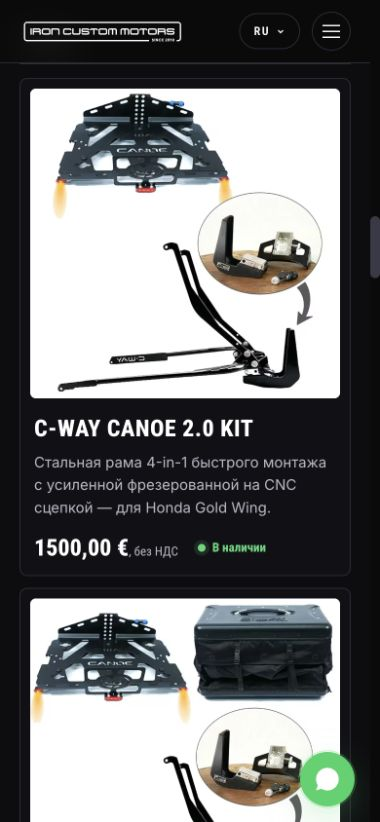
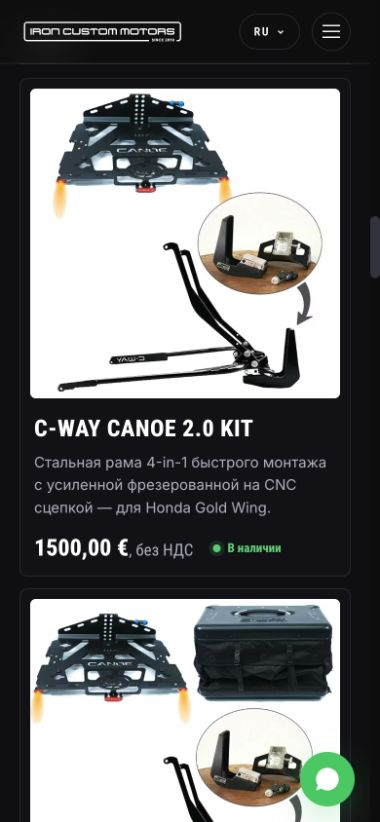
Increase C-Way VAT suffix size

diff --git a/authorized-dealer/c-way/index.html b/authorized-dealer/c-way/index.html
@@ -97,7 +97,7 @@ html[lang="ru"] .cway-video-title,html[lang="uk"] .cway-video-title{font-size:cl
 .cway-product p{margin:0 0 18px;color:var(--text-dim);font-size:clamp(15px,1.05vw,18px);line-height:1.55}
 .cway-product-meta{display:flex;flex-wrap:wrap;align-items:center;gap:12px 20px;margin-top:auto}
 .cway-price{color:#fff;font-family:var(--font-display);font-size:clamp(24px,2vw,32px);font-weight:800;line-height:1}
-.cway-price-vat{color:var(--text-dim);font-family:var(--font-ui);font-size:13px;font-weight:400;line-height:1.2;white-space:nowrap}
+.cway-price-vat{color:var(--text-dim);font-family:var(--font-ui);font-size:17px;font-weight:400;line-height:1.2;white-space:nowrap}
 .cway-stock{display:inline-flex;align-items:center;gap:7px;color:#48d67a;font-family:var(--font-ui);font-size:13px;font-weight:800}
 .cway-stock::before{content:"";width:8px;height:8px;border-radius:50%;background:#48d67a;box-shadow:0 0 0 4px rgba(72,214,122,.12)}
 .cway-studio-scroll{display:grid;grid-auto-flow:column;grid-auto-columns:minmax(260px,360px);gap:16px;overflow-x:auto;scroll-snap-type:x proximity;padding-bottom:10px}

diff --git a/pt/authorized-dealer/c-way/index.html b/pt/authorized-dealer/c-way/index.html
@@ -97,7 +97,7 @@ html[lang="ru"] .cway-video-title,html[lang="uk"] .cway-video-title{font-size:cl
 .cway-product p{margin:0 0 18px;color:var(--text-dim);font-size:clamp(15px,1.05vw,18px);line-height:1.55}
 .cway-product-meta{display:flex;flex-wrap:wrap;align-items:center;gap:12px 20px;margin-top:auto}
 .cway-price{color:#fff;font-family:var(--font-display);font-size:clamp(24px,2vw,32px);font-weight:800;line-height:1}
-.cway-price-vat{color:var(--text-dim);font-family:var(--font-ui);font-size:13px;font-weight:400;line-height:1.2;white-space:nowrap}
+.cway-price-vat{color:var(--text-dim);font-family:var(--font-ui);font-size:17px;font-weight:400;line-height:1.2;white-space:nowrap}
 .cway-stock{display:inline-flex;align-items:center;gap:7px;color:#48d67a;font-family:var(--font-ui);font-size:13px;font-weight:800}
 .cway-stock::before{content:"";width:8px;height:8px;border-radius:50%;background:#48d67a;box-shadow:0 0 0 4px rgba(72,214,122,.12)}
 .cway-studio-scroll{display:grid;grid-auto-flow:column;grid-auto-columns:minmax(260px,360px);gap:16px;overflow-x:auto;scroll-snap-type:x proximity;padding-bottom:10px}

diff --git a/ru/authorized-dealer/c-way/index.html b/ru/authorized-dealer/c-way/index.html
@@ -97,7 +97,7 @@ html[lang="ru"] .cway-video-title,html[lang="uk"] .cway-video-title{font-size:cl
 .cway-product p{margin:0 0 18px;color:var(--text-dim);font-size:clamp(15px,1.05vw,18px);line-height:1.55}
 .cway-product-meta{display:flex;flex-wrap:wrap;align-items:center;gap:12px 20px;margin-top:auto}
 .cway-price{color:#fff;font-family:var(--font-display);font-size:clamp(24px,2vw,32px);font-weight:800;line-height:1}
-.cway-price-vat{color:var(--text-dim);font-family:var(--font-ui);font-size:13px;font-weight:400;line-height:1.2;white-space:nowrap}
+.cway-price-vat{color:var(--text-dim);font-family:var(--font-ui);font-size:17px;font-weight:400;line-height:1.2;white-space:nowrap}
 .cway-stock{display:inline-flex;align-items:center;gap:7px;color:#48d67a;font-family:var(--font-ui);font-size:13px;font-weight:800}
 .cway-stock::before{content:"";width:8px;height:8px;border-radius:50%;background:#48d67a;box-shadow:0 0 0 4px rgba(72,214,122,.12)}
 .cway-studio-scroll{display:grid;grid-auto-flow:column;grid-auto-columns:minmax(260px,360px);gap:16px;overflow-x:auto;scroll-snap-type:x proximity;padding-bottom:10px}

diff --git a/uk/authorized-dealer/c-way/index.html b/uk/authorized-dealer/c-way/index.html
@@ -97,7 +97,7 @@ html[lang="ru"] .cway-video-title,html[lang="uk"] .cway-video-title{font-size:cl
 .cway-product p{margin:0 0 18px;color:var(--text-dim);font-size:clamp(15px,1.05vw,18px);line-height:1.55}
 .cway-product-meta{display:flex;flex-wrap:wrap;align-items:center;gap:12px 20px;margin-top:auto}
 .cway-price{color:#fff;font-family:var(--font-display);font-size:clamp(24px,2vw,32px);font-weight:800;line-height:1}
-.cway-price-vat{color:var(--text-dim);font-family:var(--font-ui);font-size:13px;font-weight:400;line-height:1.2;white-space:nowrap}
+.cway-price-vat{color:var(--text-dim);font-family:var(--font-ui);font-size:17px;font-weight:400;line-height:1.2;white-space:nowrap}
 .cway-stock{display:inline-flex;align-items:center;gap:7px;color:#48d67a;font-family:var(--font-ui);font-size:13px;font-weight:800}
 .cway-stock::before{content:"";width:8px;height:8px;border-radius:50%;background:#48d67a;box-shadow:0 0 0 4px rgba(72,214,122,.12)}
 .cway-studio-scroll{display:grid;grid-auto-flow:column;grid-auto-columns:minmax(260px,360px);gap:16px;overflow-x:auto;scroll-snap-type:x proximity;padding-bottom:10px}

diff --git a/scripts/build/build_authorized_dealer.py b/scripts/build/build_authorized_dealer.py
@@ -515,7 +515,7 @@ html[lang="ru"] .cway-video-title,html[lang="uk"] .cway-video-title{{font-size:c
 .cway-product p{{margin:0 0 18px;color:var(--text-dim);font-size:clamp(15px,1.05vw,18px);line-height:1.55}}
 .cway-product-meta{{display:flex;flex-wrap:wrap;align-items:center;gap:12px 20px;margin-top:auto}}
 .cway-price{{color:#fff;font-family:var(--font-display);font-size:clamp(24px,2vw,32px);font-weight:800;line-height:1}}
-.cway-price-vat{{color:var(--text-dim);font-family:var(--font-ui);font-size:13px;font-weight:400;line-height:1.2;white-space:nowrap}}
+.cway-price-vat{{color:var(--text-dim);font-family:var(--font-ui);font-size:17px;font-weight:400;line-height:1.2;white-space:nowrap}}
 .cway-stock{{display:inline-flex;align-items:center;gap:7px;color:#48d67a;font-family:var(--font-ui);font-size:13px;font-weight:800}}
 .cway-stock::before{{content:"";width:8px;height:8px;border-radius:50%;background:#48d67a;box-shadow:0 0 0 4px rgba(72,214,122,.12)}}
 .cway-studio-scroll{{display:grid;grid-auto-flow:column;grid-auto-columns:minmax(260px,360px);gap:16px;overflow-x:auto;scroll-snap-type:x proximity;padding-bottom:10px}}
